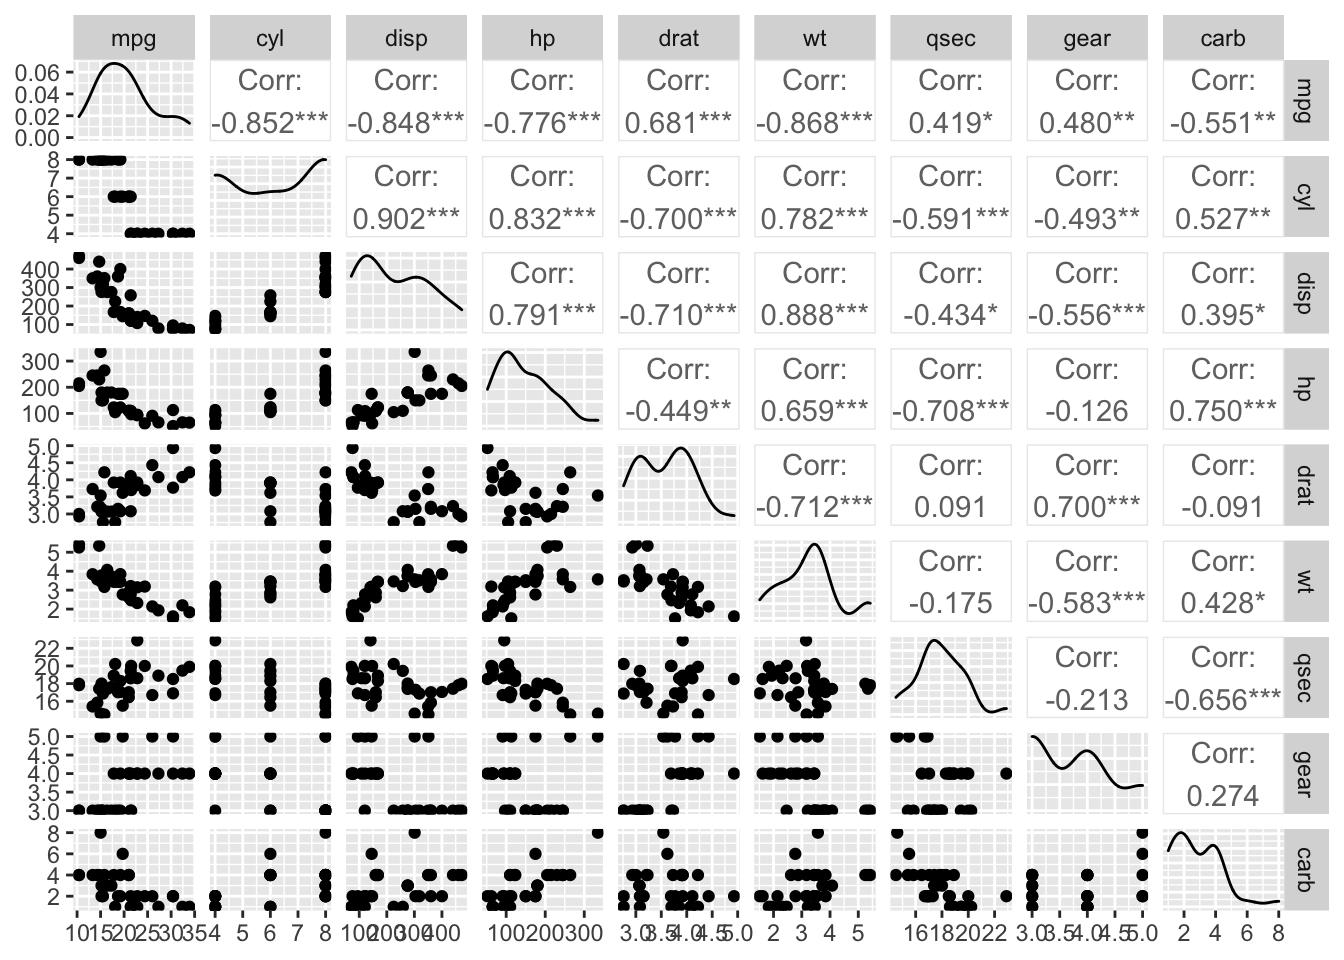
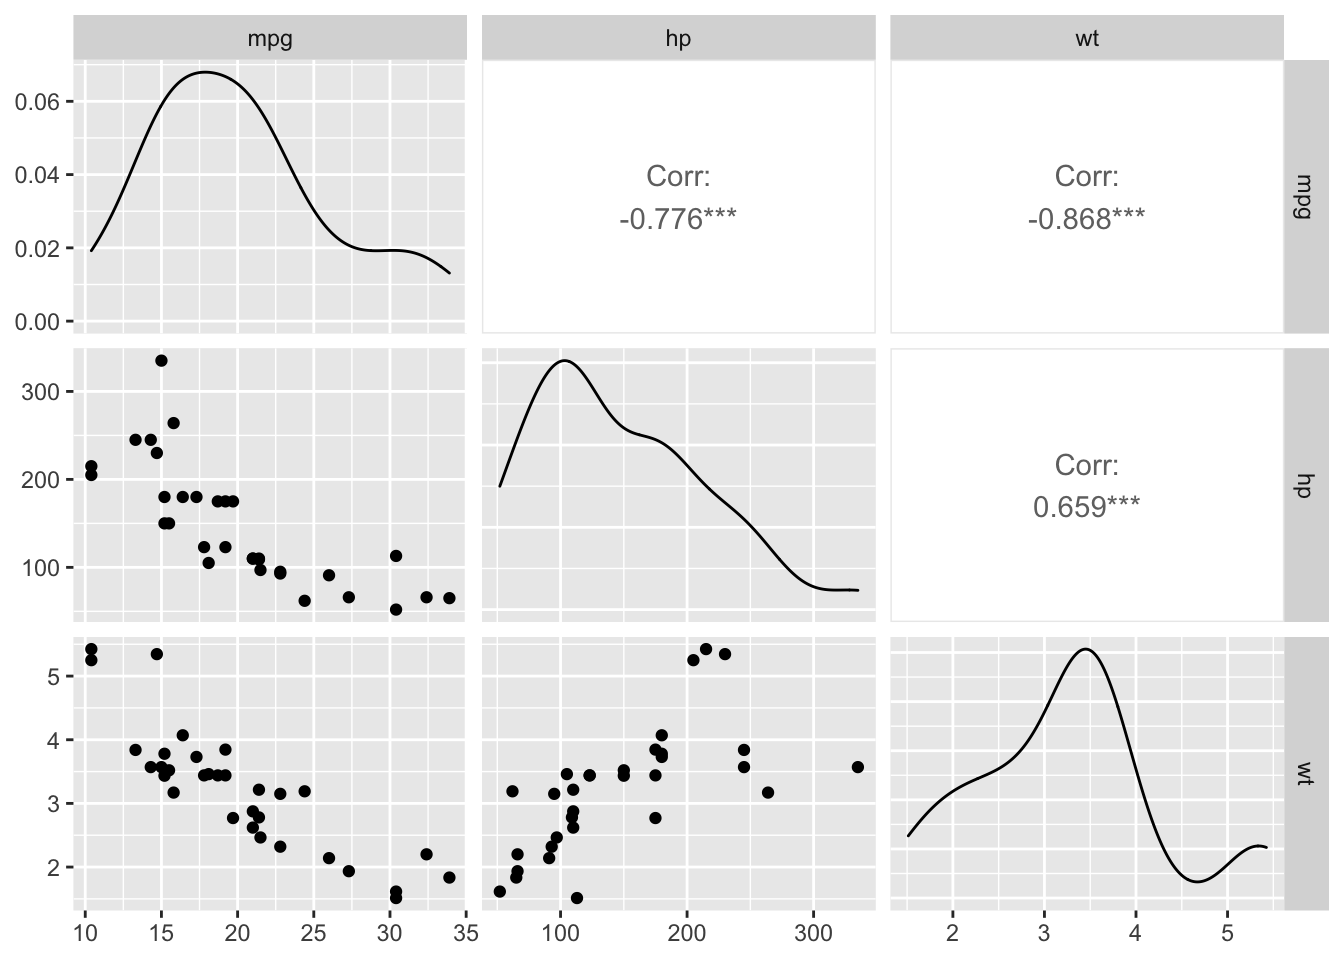
edit correlation post

diff --git a/content/blog/2020-05-28-correlation-coefficient-and-correlation-test-in-r.html b/content/blog/2020-05-28-correlation-coefficient-and-correlation-test-in-r.html
@@ -155,9 +155,10 @@ ggplot(dat) +
 </div>
 <div id="scatterplots-for-several-pairs-of-variables" class="section level2">
 <h2>Scatterplots for several pairs of variables</h2>
-<p>Suppose that instead of visualizing the relationship between only 2 variables, we want to visualize the relationship for several pairs of variables. This is possible thanks to the <code>pair()</code> function. For this illustration, we focus only on miles per gallon (<code>mpg</code>), horsepower (<code>hp</code>) and weight (<code>wt</code>):</p>
+<p>Suppose that instead of visualizing the relationship between only 2 variables, we want to visualize the relationship for several pairs of variables. This is possible thanks to the <code>pair()</code> function.</p>
+<p>For this illustration, we focus only on miles per gallon (<code>mpg</code>), horsepower (<code>hp</code>) and weight (<code>wt</code>):</p>
 <pre class="r"><code># multiple scatterplots
-pairs(dat[, c(1, 4, 6)])</code></pre>
+pairs(dat[, c(&quot;mpg&quot;, &quot;hp&quot;, &quot;wt&quot;)])</code></pre>
 <p><img src="/blog/2020-05-28-correlation-coefficient-and-correlation-test-in-r_files/figure-html/unnamed-chunk-8-1.png" width="100%" style="display: block; margin: auto;" /></p>
 <p>The figure indicates that weight (<code>wt</code>) and horsepower (<code>hp</code>) are positively correlated, whereas miles per gallon (<code>mpg</code>) seems to be negatively correlated with horsepower (<code>hp</code>) and weight (<code>wt</code>).</p>
 </div>
@@ -352,10 +353,11 @@ corrplot2(
 <p><img src="/blog/2020-05-28-correlation-coefficient-and-correlation-test-in-r_files/figure-html/unnamed-chunk-14-1.png" width="100%" style="display: block; margin: auto;" /></p>
 <p>The correlogram shows correlation coefficients for all pairs of variables (with more intense colors for more extreme correlations), and correlations not significantly different from 0 are represented by a white box.</p>
 <p>To learn more about this plot and the code used, I invite you to read the article entitled “<a href="/blog/correlogram-in-r-how-to-highlight-the-most-correlated-variables-in-a-dataset/">Correlogram in R: how to highlight the most correlated variables in a dataset</a>.”</p>
-<p>For those of you who are still not completely satisfied, I recently found an alternative with the <code>ggpairs()</code> function from the <code>{GGally}</code> package:</p>
+<p>For those of you who are still not completely satisfied, I recently found an alternative with the <code>ggpairs()</code> function from the <code>{GGally}</code> package.</p>
+<p>Here is an example with the variables <code>mpg</code>, <code>hp</code> and <code>wt</code>:</p>
 <pre class="r"><code>library(GGally)
 
-ggpairs(dat)</code></pre>
+ggpairs(dat[, c(&quot;mpg&quot;, &quot;hp&quot;, &quot;wt&quot;)])</code></pre>
 <p><img src="/blog/2020-05-28-correlation-coefficient-and-correlation-test-in-r_files/figure-html/unnamed-chunk-15-1.png" width="100%" style="display: block; margin: auto;" /></p>
 <p>This plot combines correlation coefficients, correlation tests and scatterplots for all possible pairs of variables present in a dataset.</p>
 </div>
